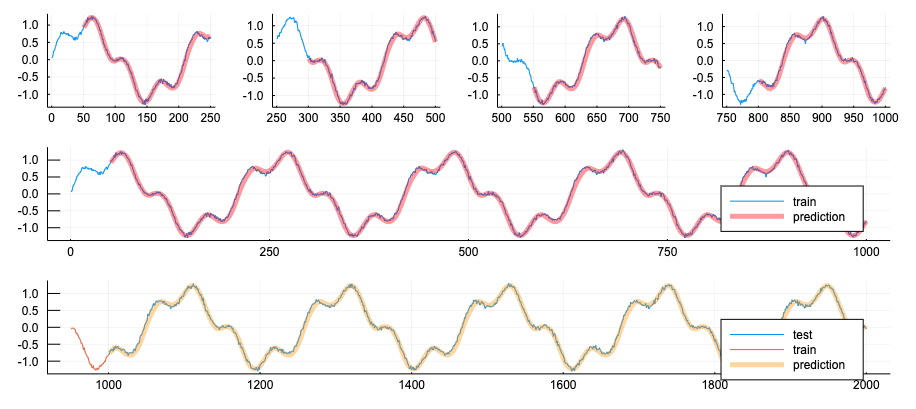
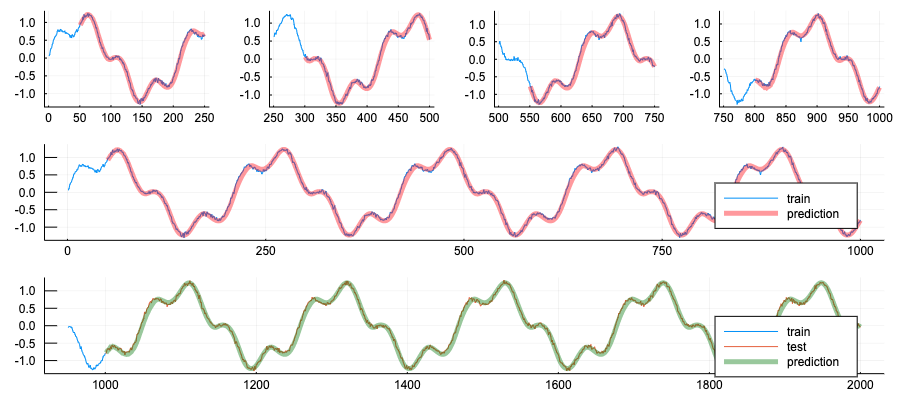
update

Changed region(s): [[0.0, 0.0297, 0.9978, 0.297], [0.0, 0.6832, 0.9978, 0.9802], [0.0, 0.3564, 0.9978, 0.6535]]

diff --git a/_posts/from_notebook/2019-09-04-Julia_notes_07.md b/_posts/from_notebook/2019-09-04-Julia_notes_07.md
@@ -182,9 +182,9 @@ plot(751:1000,X[751:1000],label="")
 p4 = plot!(801:1000,X_pred_4[51:250],lw=5,linealpha=0.4,c=:red,label="")
 plot(X,label="real")
 p5 = plot!(51:1000,X_pred_1[51:1000],lw=5,linealpha=0.4,c=:red,label="prediction")
-plot(1001:2000,X_test,label="test")
-plot!(951:1000,X[951:1000],label="train")
-p6 = plot!(1001:2000,X_pred_test[51:1050],lw=5,linealpha=0.4,c=:orange,label="prediction")
+plot(951:1000,X[951:1000],label="train")
+plot!(1001:2000,X_test,label="test")
+p6 = plot!(1001:2000,X_pred_test[51:1050],lw=5,linealpha=0.4,c=:green,label="prediction")
 plot(p1,p2,p3,p4,p5,p6,layout=l,size=(900,400))
 ```
 
